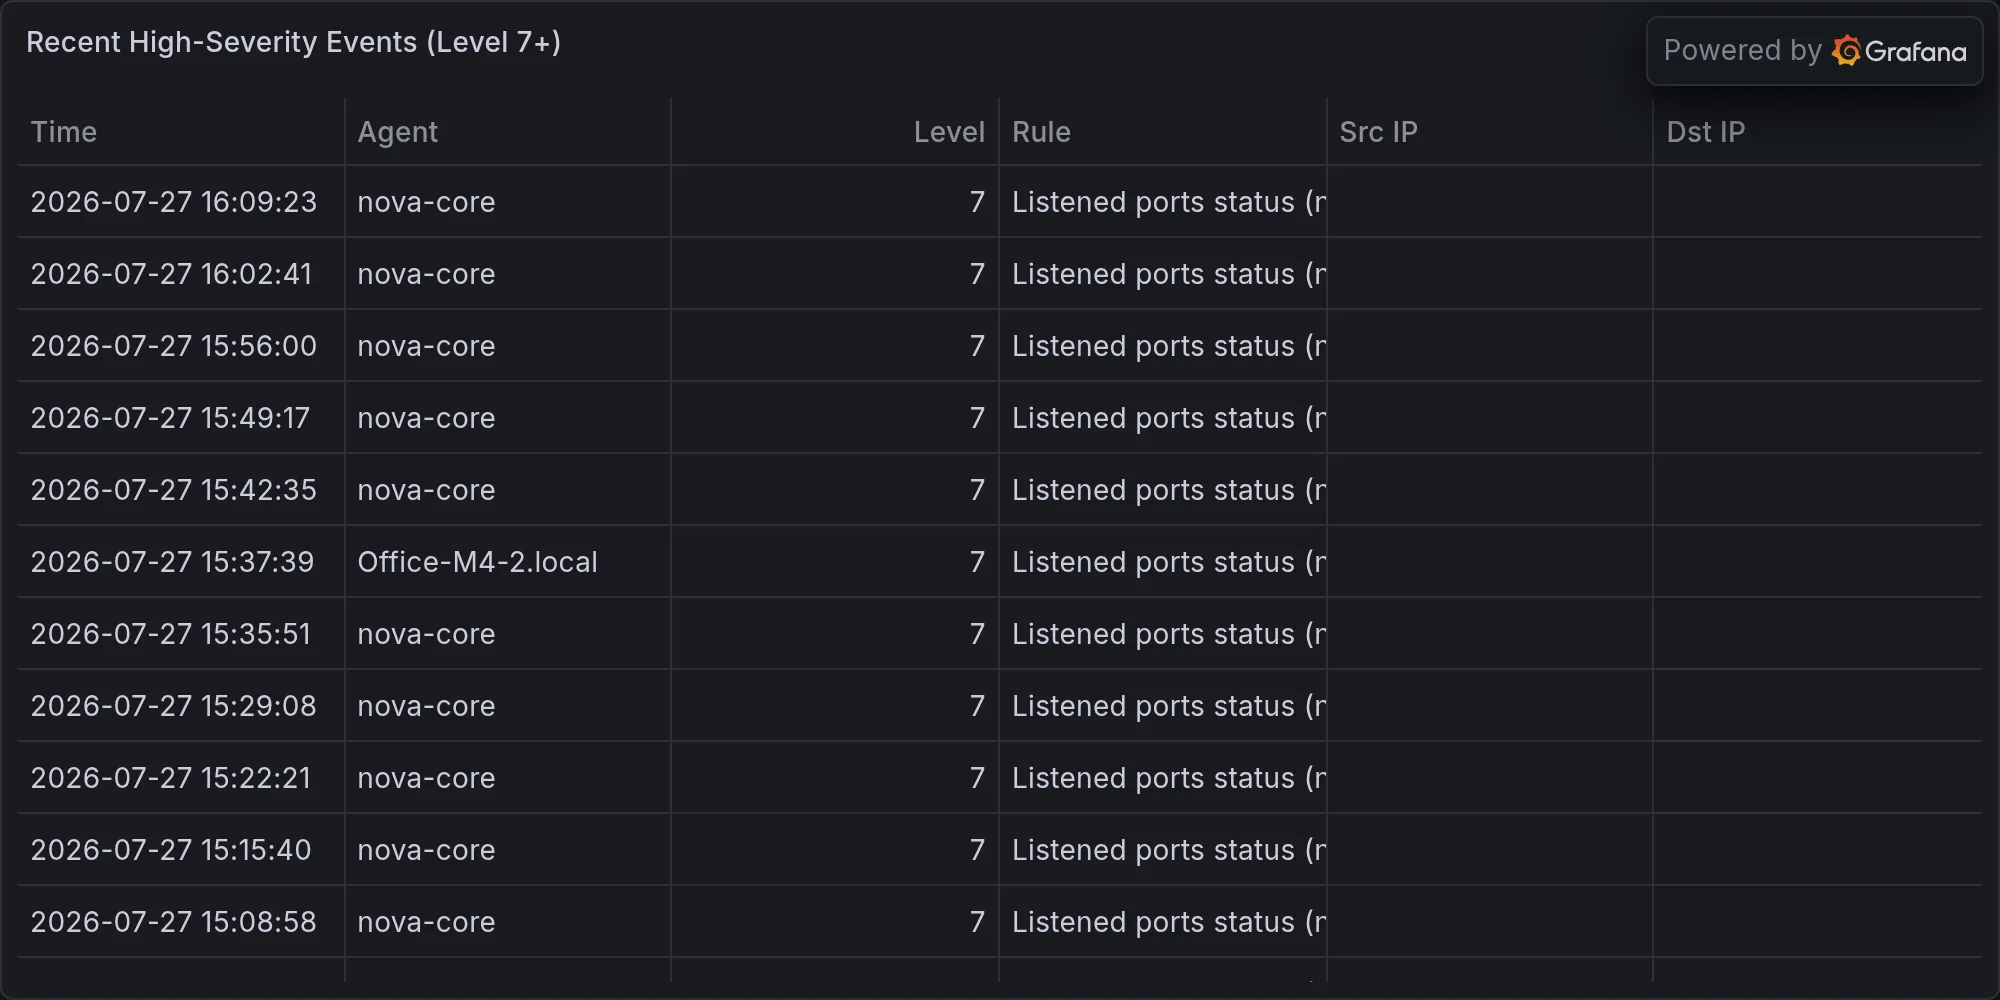
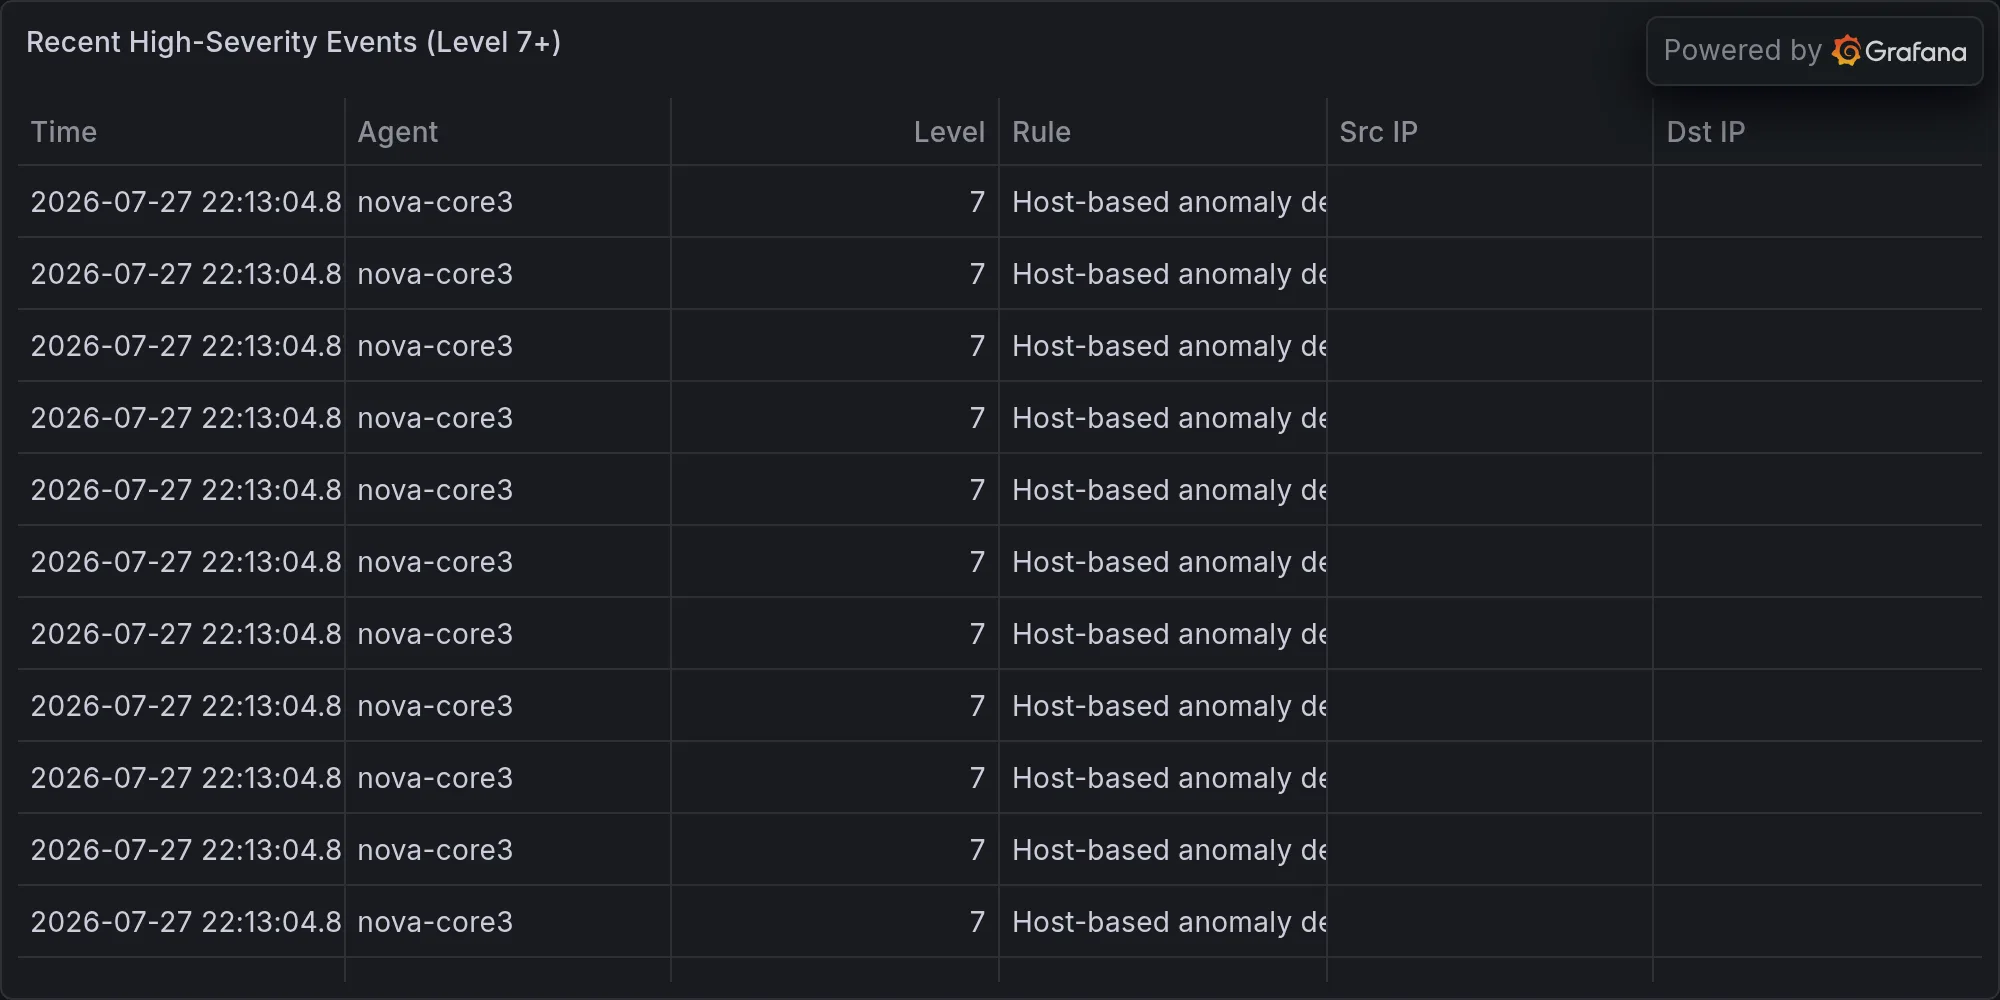
security: 2026-07-27 — **CRITICAL: Arista VeloCloud Orchestrator Zero-Day

diff --git a/content/operations/2026-07-27-critical-arista-velocloud-orchestrator-zero-day-cve-2026-168.md b/content/operations/2026-07-27-critical-arista-velocloud-orchestrator-zero-day-cve-2026-168.md
@@ -1,0 +1,79 @@
+---
+title: "🛡 **CRITICAL: Arista VeloCloud Orchestrator Zero-Day (CVE-2026-16812) — Unauthenticated RCE — Active Exploitation**"
+date: 2026-07-27T22:15:59-07:00
+draft: false
+categories: ["operations"]
+tags: ["breaking-alert", "bleepingcomputer-arista-patches-veloclou", "security"]
+description: "BREAKING: BleepingComputer: Arista patches VeloCloud Orchestrator zero-day exploited in attacks"
+cover:
+  image: "/images/operations/2026-07-27-critical-arista-velocloud-orchestrator-zero-day-cve-2026-168.webp"
+  alt: "**CRITICAL: Arista VeloCloud Orchestrator Zero-Day (CVE-2026-16812) — Unauthenticated RCE — Active Exploitation**"
+  relative: false
+---
+
+*Published Monday, July 27, 2026 at 10:15 PM PT*
+
+![**CRITICAL: Arista VeloCloud Orchestrator Zero-Day (CVE-2026-16812) — Unauthenticated RCE — Active Exploitation**](/images/operations/2026-07-27-critical-arista-velocloud-orchestrator-zero-day-cve-2026-168.webp)
+
+**BLUF:** Arista has patched a maximum-severity (CVSS 10.0) unauthenticated command injection flaw in on-premises VeloCloud Orchestrator (VCO) that is actively exploited in the wild. Affected on-premises deployments require immediate patching; no credentials needed to trigger. CISA has ordered U.S. federal agencies to remediate by 30 July 2026. Hosted/Dedicated VCO instances are already patched.
+
+---
+
+**DETAILS**
+
+- **Vulnerability:** CVE-2026-16812 — unauthenticated OS command injection in VeloCloud Orchestrator on-premises deployments; CVSS 10.0 (maximum).
+- **Attack vector:** Remote, network-accessible. Exploits privileged functionality exposed on the VCO web interface; no tenant or operator credentials required.
+- **Active exploitation confirmed:** CISA added CVE-2026-16812 to its Known Exploited Vulnerabilities catalog; Arista confirms active attacks in the wild but has not disclosed timing, threat actor identity, or exploitation techniques.
+- **Malicious IPs identified:** Three IP addresses linked to exploitation attempts: 8.19.75.217, 206.72.242.124, 206.72.242.162.
+- **Scope:** VeloCloud Orchestrator on-premises only. VCO Hosted and Dedicated deployments patched pre-disclosure. VeloCloud Gateway and Edge products are not vulnerable.
+
+---
+
+**AFFECTED VERSIONS**
+
+| VCO Release | Vulnerable | Fixed |
+|---|---|---|
+| 5.2.x | Before 5.2.3.14 | 5.2.3.14+ |
+| 6.1.x | Before 6.1.3.4 | 6.1.3.4+ |
+| 6.4.x | Before 6.4.2.4 | 6.4.2.4+ |
+| 7.0.x | Before 7.0.0.1 | 7.0.0.1+ |
+
+End-of-support release trains have not been assessed; contact Arista TAC for upgrade guidance.
+
+---
+
+**IMPACT**
+
+Successful exploitation compromises the confidentiality, integrity, and availability of the orchestrator and all data managed by it. VeloCloud Orchestrator is a centralized management platform for SD-WAN deployments and edge devices; compromise enables attackers to manipulate routing, intercept traffic, and maintain persistent access to downstream network infrastructure.
+
+Organizations operating VCO on-premises deployments with internet-facing management interfaces are at immediate risk. VCO is designed to be network-accessible by default—no configuration option can prevent exposure—making all unpatched instances vulnerable.
+
+---
+
+**RECOMMENDED ACTIONS — IMMEDIATE**
+
+1. **Identify on-premises VCO deployments** and confirm current version (run `show version` or check VCO UI).
+2. **Prioritize patching** to one of the fixed versions listed above.
+3. **Restrict network access** to VCO web interface to administrative/trusted networks pending patches.
+4. **Block malicious IPs** (8.19.75.217, 206.72.242.124, 206.72.242.162) at perimeter.
+5. **Review VCO audit logs** for indicators of compromise:
+   - Unusual web requests with encoded characters, URL-like path components, or references to internal services
+   - Connections from the three malicious IPs above
+   - Unexpected outbound HTTP/HTTPS from VCO host
+   - Unauthorized configuration changes, privileged maintenance activity, or command execution
+
+6. **For U.S. federal agencies:** CISA Binding Operational Directive 22-01 mandates mitigation by 30 July 2026.
+
+---
+
+**SOURCES**
+
+BleepingComputer, 27 July 2026 — "Arista patches VeloCloud Orchestrator zero-day exploited in attacks"  
+Arista Networks Security Advisory — CVE-2026-16812  
+CISA Known Exploited Vulnerabilities Catalog (27 July 2026)
+
+---
+
+**Recent high-severity events at publish time:**
+
+![Recent high-severity events](/images/operations/2026-07-27-breaking-alert-posture.webp)
